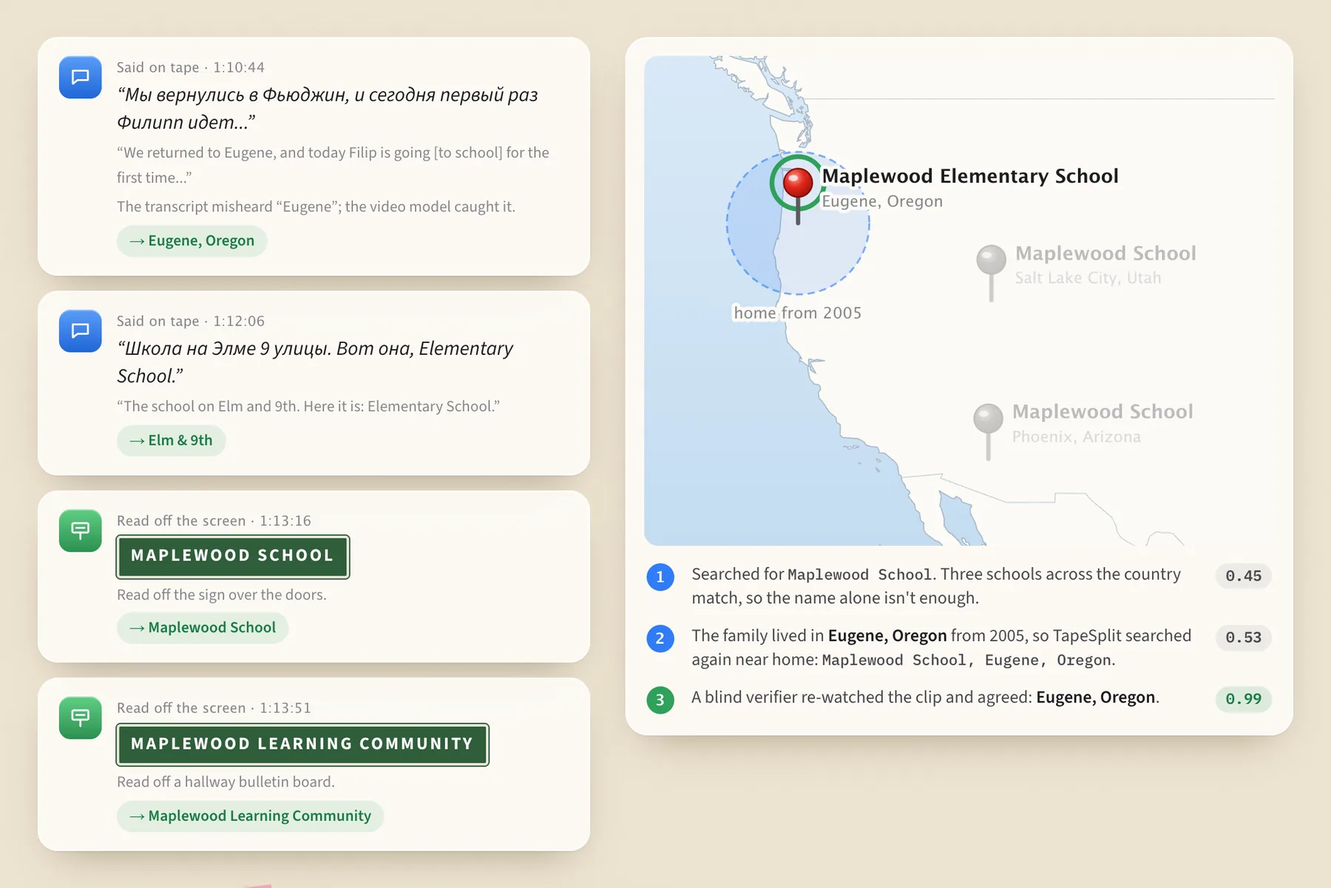
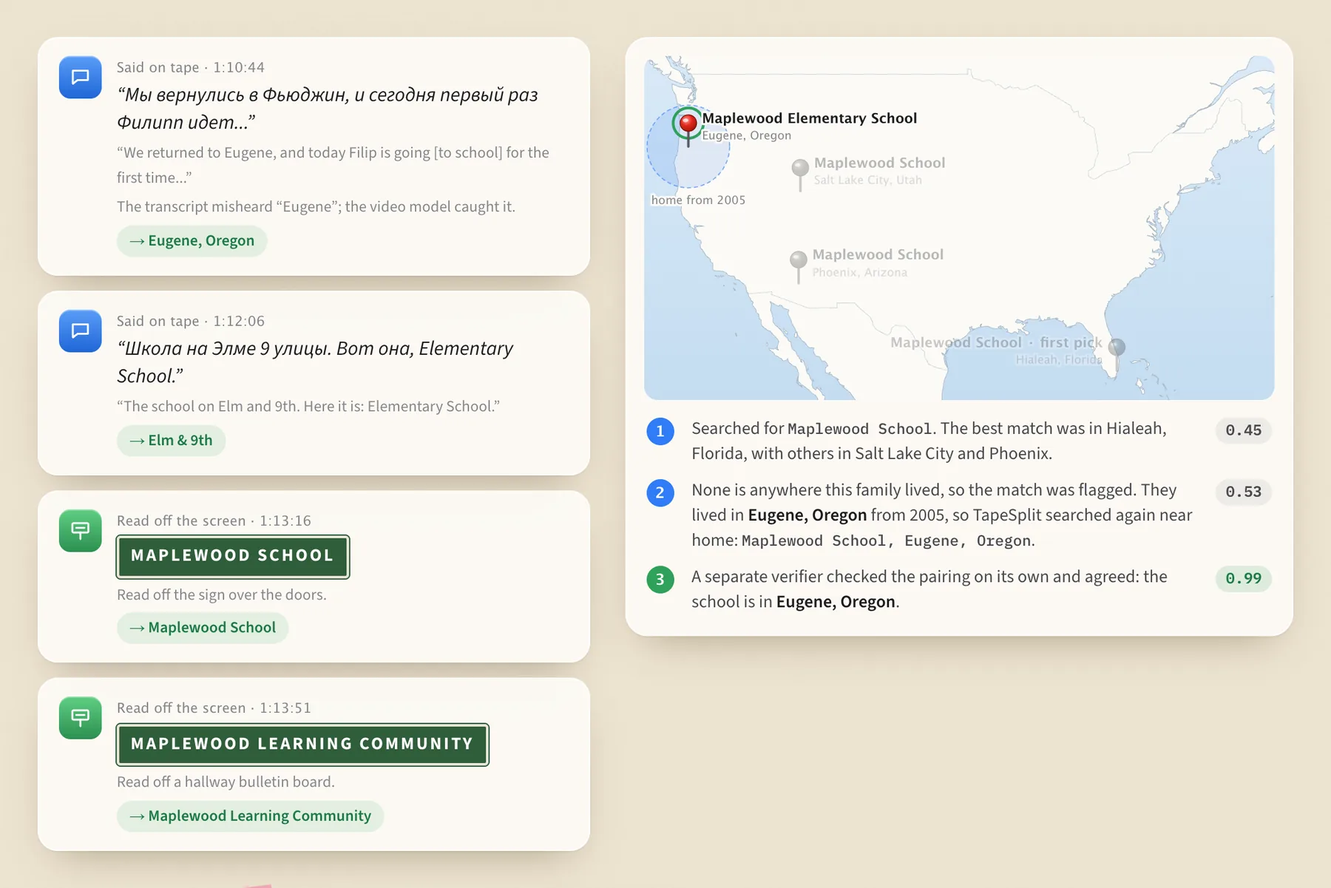
Show the geocoder's real first pick in the Where chapter
The loose search for the school's name picked a match in Florida, with
others in Utah and Arizona, and TapeSplit flagged it because none is near
where the family lived. The map and steps now show that, instead of
implying Eugene was one of the first three matches. The final 0.99 check
is described as what it is: a separate verifier agreeing the school
belongs in Eugene, not a rewatch of the clip.

Changed region(s): [[0.4667, 0.0616, 0.9956, 0.8626], [0.9022, 0.647, 0.9644, 0.6778]]

diff --git a/site/how-data.js b/site/how-data.js
@@ -1,1 +1,1 @@
-window.TAPESPLIT_HOW = {"tape":{"tape":18,"file":"tape-20.mp4","duration":7374.3,"moments":[{"t0":0.0,"t1":455.4,"title":"House and Garden Tour","date":null,"kind":"home"},{"t0":483.8,"t1":542.9,"title":"Front Yard and House Exterior","date":null,"kind":"home"},{"t0":1485.0,"t1":1605.0,"title":"Halloween Decorations","date":"November 6, 2004","kind":"holiday"},{"t0":1605.0,"t1":1665.0,"title":"Philip Watches Cartoon","date":"November 14, 2004","kind":"home"},{"t0":1665.0,"t1":1924.9,"title":"Birthday Party Games","date":"December 5, 2004","kind":"birthday"},{"t0":2097.9,"t1":2172.9,"title":"Birthday Cake and Song","date":null,"kind":"birthday"},{"t0":2280.0,"t1":2467.0,"title":"Volcanic Landscape Exploration","date":"JUN 12 2005","kind":"travel"},{"t0":2467.0,"t1":2507.0,"title":"Forest Waterfall and Giant Trees","date":null,"kind":"travel"},{"t0":2655.0,"t1":2768.0,"title":"Mountain Views","date":null,"kind":"travel"},{"t0":2857.0,"t1":2995.0,"title":"Wildlife Safari Visit","date":"JUN 18 2005","kind":"travel"},{"t0":2995.0,"t1":3163.0,"title":"Safari Train Ride and Animals","date":null,"kind":"travel"},{"t0":3163.0,"t1":3392.0,"title":"Driving Safari and Ostrich Encounter","date":null,"kind":"travel"},{"t0":3540.0,"t1":3739.2,"title":"Safari Park Visit","date":null,"kind":"travel"},{"t0":3742.8,"t1":4031.4,"title":"First Day of School in Moscow","date":"SEP 1 2005","kind":"school"},{"t0":4031.4,"t1":4161.6,"title":"Home in Moscow","date":"SEP 1 2005","kind":"home"},{"t0":4164.0,"t1":4486.1,"title":"First Day of School in Eugene","date":"SEP 7 2005","kind":"school"},{"t0":4486.1,"t1":4530.0,"title":"Classroom Activities","date":"SEP 7 2005","kind":"school"},{"t0":4530.0,"t1":4571.3,"title":"First Day Lesson","date":null,"kind":"school"},{"t0":5310.0,"t1":5337.1,"title":"Filip's Hike and Culinary Preferences","date":null,"kind":"travel"},{"t0":5337.1,"t1":5360.8,"title":"Ascending the Volcanic Hill","date":null,"kind":"travel"},{"t0":5360.8,"t1":6453.8,"title":"Filip's Summit Rest and Descent","date":null,"kind":"travel"},{"t0":6453.8,"t1":6704.1,"title":"University Campus Walk","date":null,"kind":"school"},{"t0":6704.1,"t1":6914.9,"title":"Geology Lab Tour","date":null,"kind":"school"},{"t0":6914.9,"t1":7095.0,"title":"Ski Trip at Willamette Pass","date":"MAR 5 2006","kind":"travel"},{"t0":7080.0,"t1":7115.0,"title":"Skiing and Snow Play","date":null,"kind":"travel"},{"t0":7115.0,"t1":7252.8,"title":"Salt Creek Falls Visit","date":null,"kind":"travel"},{"t0":7252.8,"t1":7370.0,"title":"Fish Hatchery and Bird Enclosures","date":null,"kind":"travel"}],"gaps":[[192.0,200.0],[308.0,312.0],[630.0,640.0],[644.0,656.0],[682.0,692.0],[708.0,722.0],[728.0,756.0],[760.0,766.0],[794.0,798.0],[812.0,822.0],[864.0,868.0],[894.0,898.0],[902.0,914.0],[1048.0,1052.0],[1058.0,1064.0],[1078.0,1094.0],[1114.0,1124.0],[1132.0,1138.0],[1142.0,1146.0],[1546.0,1550.0],[2042.0,2046.0],[2060.0,2068.0],[2076.0,2082.0],[2136.0,2166.0],[2212.0,2216.0],[2262.0,2266.0],[2308.0,2344.0],[2360.0,2400.0],[2410.0,2420.0],[2466.0,2486.0],[2490.0,2496.0],[2514.0,2522.0],[2538.0,2572.0],[2576.0,2580.0],[2590.0,2602.0],[2610.0,2618.0],[2630.0,2646.0],[2650.0,2660.0],[2666.0,2670.0],[2674.0,2678.0],[2682.0,2686.0],[2700.0,2704.0],[2730.0,2746.0],[2762.0,2768.0],[2826.0,2856.0],[2920.0,2926.0],[2930.0,2934.0],[2944.0,2956.0],[2984.0,2988.0],[3040.0,3044.0],[3068.0,3074.0],[3080.0,3088.0],[3132.0,3136.0],[3234.0,3248.0],[3312.0,3320.0],[3356.0,3386.0],[3436.0,3468.0],[3474.0,3478.0],[3570.0,3594.0],[3754.0,3760.0],[4008.0,4018.0],[4162.0,4166.0],[4178.0,4200.0],[4208.0,4218.0],[4286.0,4290.0],[4332.0,4342.0],[4440.0,4456.0],[4470.0,4476.0],[4532.0,4538.0],[4866.0,4874.0],[4946.0,4950.0],[4974.0,5020.0],[5252.0,5260.0],[5376.0,5380.0],[5452.0,5470.0],[5476.0,5490.0],[5570.0,5596.0],[5602.0,5606.0],[5628.0,5632.0],[5654.0,5660.0],[5710.0,5716.0],[5832.0,5836.0],[5840.0,5848.0],[5936.0,5954.0],[6176.0,6182.0],[6198.0,6202.0],[6410.0,6422.0],[6442.0,6462.0],[6480.0,6492.0],[6510.0,6518.0],[6522.0,6532.0],[6552.0,6556.0],[6600.0,6606.0],[6626.0,6638.0],[6676.0,6680.0],[6718.0,6722.0],[6760.0,6764.0],[6838.0,6848.0],[6852.0,6856.0],[6888.0,6892.0],[6904.0,6912.0],[6926.0,6930.0],[6938.0,6946.0],[6950.0,6954.0],[6972.0,6982.0],[7014.0,7020.0],[7028.0,7042.0],[7052.0,7076.0],[7088.0,7102.0],[7114.0,7134.0],[7156.0,7162.0],[7170.0,7194.0],[7200.0,7218.0],[7242.0,7246.0],[7308.0,7314.0],[7328.0,7338.0],[7346.0,7374.3]],"focus":[3742.8,4571.3]},"sequence":[{"t":3765.0,"clock":"1:02:45","stamp":"SEP 1 2005","image":"media/how/moscow-sep1.webp","place":"Moscow","title":"First Day of School in Moscow","ocr":[{"text":"SEP","box":[0.5608,0.8577,0.1119,0.075],"id":"visual_text_001189"},{"text":"12005","box":[0.711,0.8484,0.1919,0.089],"id":"visual_text_001188"}],"said":{"ru":"Сегодня 1 сентября, я иду в школу снимать начало учебного года.","en":"Today is September 1st. I'm going to the school to film the start of the school year."}},{"t":4248.67,"clock":"1:10:49","stamp":"SEP 7 2005","image":"media/how/eugene-sep7.webp","place":"Eugene, Oregon","title":"First Day of School in Eugene","ocr":[{"text":"SEP","box":[0.5672,0.8577,0.1183,0.0703],"id":"visual_text_001192"},{"text":"7 2005","box":[0.7142,0.8554,0.1887,0.0796],"id":"visual_text_001191"}],"said":{"ru":"Мы вернулись в Фьюджин, и сегодня первый раз Филипп идет...","en":"We returned to Eugene, and today Filip is going [to school] for the first time...","en_by":"TapeSplit's Journal"}},{"t":4543.0,"clock":"1:15:43","stamp":"FEB 17 2006","image":"media/how/feb17.webp","place":null,"title":"Filip Loses a Tooth","ocr":[{"text":"FEB 17 2006","box":[0.5672,0.8577,0.3358,0.0703],"id":"visual_text_001212"}],"said":null}],"whiteboard":{"image":"media/how/whiteboard.webp","t":4507.67,"clock":"1:15:08","ocr":[{"text":"Today is Wednesday","box":[0.1754,0.3307,0.4525,0.1897],"id":"visual_text_001207"},{"text":"September 7,","box":[0.3145,0.415,0.2766,0.164],"id":"visual_text_001209"},{"text":"22005","box":[0.6023,0.4033,0.1023,0.0609],"id":"visual_text_001208"},{"text":"We will learn names","box":[0.185,0.4923,0.494,0.2694],"id":"visual_text_001210"}],"cited":"Today is Wednesday September 7, 2005"},"ignored":[{"kind":"file","label":"File created 2026","why":"That's when the tape was digitized, not when it was filmed."},{"kind":"history","label":"“1904”","where":"Anna Snegina Museum and Yesenin's House","why":"Mentioned in passing at a museum: a year from history, not the day of filming."}],"window":{"from":2003,"to":2008,"basis":["narrated_day_date","overlay_datestamp"]},"where":{"clues":[{"kind":"speech","t":4243.97,"clock":"1:10:44","ru":"Мы вернулись в Фьюджин, и сегодня первый раз Филипп идет...","en":"We returned to Eugene, and today Filip is going [to school] for the first time...","gives":"Eugene, Oregon","note":"The transcript misheard “Eugene”; the video model caught it."},{"kind":"speech","t":4326.28,"clock":"1:12:06","ru":"Школа на Элме 9 улицы. Вот она, Elementary School.","en":"The school on Elm and 9th. Here it is: Elementary School.","gives":"Elm & 9th"},{"kind":"sign","t":4395.6,"clock":"1:13:16","text":"MAPLEWOOD SCHOOL","gives":"Maplewood School","note":"Read off the sign over the doors."},{"kind":"sign","t":4431.3,"clock":"1:13:51","text":"MAPLEWOOD LEARNING COMMUNITY","gives":"Maplewood Learning Community","note":"Read off a hallway bulletin board."}],"query":"Maplewood School","candidates":[{"label":"Maplewood School","city":"Salt Lake City, Utah","lat":40.76,"lng":-111.89,"kept":false},{"label":"Maplewood School","city":"Phoenix, Arizona","lat":33.45,"lng":-112.07,"kept":false},{"label":"Maplewood Elementary School","city":"Eugene, Oregon","lat":44.05,"lng":-123.09,"kept":true}],"loose_confidence":0.45,"scoped_query":"Maplewood School, Eugene, Oregon","scoped_confidence":0.53,"era":{"label":"Eugene, Oregon years","from":2005,"conflict":[2005]},"context_confidence":0.99,"context_basis":"verification_vote"},"voices":{"clip":{"video":"media/how/firstday-qa.mp4","poster":"media/how/firstday-qa-poster.webp","t0":4262.6,"dur":21.799999999999272},"wave":[0.041,0.039,0.042,0.041,0.036,0.044,0.042,0.039,0.045,0.231,1.0,0.319,0.586,0.785,0.617,0.986,0.899,0.121,0.508,0.741,0.373,1.0,0.712,1.0,0.783,0.634,0.513,0.049,0.057,0.736,0.21,0.089,0.696,0.501,0.677,0.286,0.331,0.695,0.353,0.333,0.04,0.041,0.043,0.041,0.07,0.044,0.035,0.047,0.079,0.065,0.06,0.131,0.107,0.041,0.033,0.031,0.03,0.331,0.648,1.0,0.197,0.873,0.767,0.115,0.497,0.774,0.338,0.082,0.206,0.183,0.082,0.041,0.043,0.101,0.075,0.722,0.787,0.997,0.146,0.635,0.068,0.038,0.044,0.066,0.071,0.036,0.042,0.04,0.046,0.049,0.044,0.051,0.045,0.059,0.305,0.578,0.414,0.804,0.676,0.721,0.255,0.338,0.804,0.671,0.523,0.648,0.753,0.083,0.075,0.088,0.086,0.084,0.088,0.105,0.124,0.094,0.1,0.138,0.125,0.099,0.104,0.157,0.149,0.109,0.157,0.808,0.476,0.124,0.125,0.123,0.137,0.133,0.586,0.341,0.179,0.766,0.456,0.236,0.204,0.181,0.204,0.21,0.218,0.207,0.178,0.162,0.176,0.145,0.129,0.119,0.147,0.145,0.135,0.086,0.097,0.249,0.088,0.093,0.105,0.086,0.078,0.07,0.058,0.059,0.051,0.048,0.052,0.047,0.096,0.323,0.606,0.116,0.038,0.048,0.056,0.074],"segments":[{"t0":0.98,"t1":4.88,"voice":1,"ru":"Филечка, что ты думаешь насчет своего первого дня в классе? Скажи бабушкам, дедушкам.","en":"Filechka, what do you think about your first day in class? Tell your grandmas and grandpas."},{"t0":7.03,"t1":8.08,"voice":1,"ru":"Ты боишься немножко, нет?","en":"Are you a little scared?"},{"t0":8.28,"t1":8.63,"voice":2,"ru":"Нет.","en":"No."},{"t0":9.03,"t1":9.83,"voice":1,"ru":"Ты не боишься?","en":"You're not scared?"},{"t0":10.23,"t1":10.48,"voice":2,"ru":"Нет.","en":"No."},{"t0":11.36,"t1":13.26,"voice":1,"ru":"А что ты хочешь бабушкам привет передать?","en":"Do you want to say hi to your grandmas?"},{"t0":15.51,"t1":16.91,"voice":1,"ru":"Да? Как ты скажешь?","en":"Yes? What will you say?"},{"t0":18.86,"t1":20.26,"voice":2,"ru":"Не знаю.","en":"I don't know."},{"t0":20.71,"t1":21.01,"voice":1,"ru":"Да?","en":"Yeah?"}],"model":"gpt-4o-transcribe-diarize"},"language":{"switch":[{"t":4326.28,"clock":"1:12:06","parts":[["ru","Школа на Элме 9 улицы. Вот она, "],["en","Elementary School."]],"en":"The school on Elm and 9th. Here it is: Elementary School."},{"t":4345.03,"clock":"1:12:25","parts":[["en","But you're Spider-Man, huh?"]],"en":null},{"t":4485.63,"clock":"1:14:46","parts":[["en","Good morning Emily."]],"en":null}],"search":{"query":"grandma and grandpa","hits":[{"tape":18,"clock":"1:11:06","ru":"Скажи бабушкам, дедушкам.","en":"Tell your grandmas and grandpas."},{"tape":17,"clock":"1:02:02","ru":"И старые дедушки, и бабушки.","en":"And the old grandpas, and the grandmas."},{"tape":18,"clock":"22:08","ru":"Скажи бабушкам что-нибудь.","en":"Say something to your grandmas."}],"model":"paraphrase-multilingual-MiniLM-L12-v2"},"journal":{"ru":"Вот родной двор, родной балкон. Сегодня 1 сентября, я иду в школу.","en":"Here is our native courtyard, our native balcony. Today is September 1; I’m going to school.","date":"September 1, 2005","tape":3,"clock":"0:52","model":"gpt-5.6-terra"},"entry":{"kicker":"Первый звонок","title":"Филипп идет в Maplewood School","dek":"7 сентября 2005 года Филипп впервые отправился в школу в Eugene, Oregon — с рюкзаком, ланчбоксом и заметным волнением.","date":"September 7, 2005","model":"gpt-5.6-terra"},"names":["Filia","Filip","Filipp","Filya","Philip","Филип","Филипп","Филя"],"roles":["Grandma","Grandpa"]},"faces":{"frames":[{"image":"media/how/track-0.webp","box":[0.5321,0.254,0.2251,0.3839],"t":4356.28},{"image":"media/how/track-1.webp","box":[0.4557,0.3204,0.3048,0.492],"t":4358.48},{"image":"media/how/track-2.webp","box":[0.1057,0.0598,0.3217,0.5372],"t":4360.69}],"track_frames":23,"span":4.4},"archive":{"tapes":[{"tape":1,"moments":0,"hours":3.2,"window":[1996,2009],"direct":false,"dates":[]},{"tape":2,"moments":0,"hours":2.07,"window":[1996,2009],"direct":false,"dates":[]},{"tape":3,"moments":10,"hours":1.33,"window":[2004,2007],"direct":true,"dates":[["2003-01-05","said"],["2005-09-01","said"],["2005-09-07","said"],["2006-02-17","stamp"],["2006-03-22","said"],["2006-03-25","stamp"],["2006-03-26","stamp"]]},{"tape":4,"moments":12,"hours":2.09,"window":[2002,2005],"direct":true,"dates":[["2003-03-01","said"],["2003-03-15","said"],["2003-03-29","said"],["2003-05-10","said"],["2003-05-15","said"],["2003-11-01","said"],["2004-01-01","said"],["2004-01-04","said"]]},{"tape":5,"moments":12,"hours":1.25,"window":[2000,2003],"direct":true,"dates":[["2001-12-01","said"],["2001-12-02","said"],["2001-12-14","said"],["2001-12-31","stamp"],["2002-01-01","said"],["2002-04-21","stamp"],["2002-04-27","stamp"],["2002-04-29","stamp"],["2002-05-05","said"],["2002-05-10","said"],["2002-05-11","said"],["2002-05-12","said"],["2002-05-17","said"],["2002-05-19","said"],["2002-05-26","stamp"],["2002-06-12","said"],["2002-06-25","said"],["2003-01-05","stamp"]]},{"tape":6,"moments":46,"hours":3.5,"window":[2000,2005],"direct":true,"dates":[["2001-12-01","said"],["2001-12-02","said"],["2001-12-14","said"],["2001-12-23","said"],["2002-04-21","stamp"],["2002-04-29","stamp"],["2002-05-10","said"],["2002-07-28","said"],["2002-10-13","said"],["2002-12-08","said"],["2003-01-05","stamp"],["2004-02-15","said"],["2004-02-21","stamp"],["2004-02-29","said"],["2004-03-07","said"],["2004-04-10","said"],["2004-06-15","stamp"],["2004-06-16","said"],["2005-09-01","said"]]},{"tape":7,"moments":3,"hours":1.38,"window":[1999,2001],"direct":true,"dates":[]},{"tape":8,"moments":30,"hours":2.08,"window":[1997,1999],"direct":true,"dates":[["1998-08-28","said"],["1998-08-29","said"],["1998-09-01","said"],["1998-09-02","said"],["1998-09-04","said"],["1998-09-05","said"],["1998-09-09","stamp"],["1998-09-12","said"],["1998-09-13","said"],["1998-09-14","said"]]},{"tape":9,"moments":30,"hours":2.06,"window":[2006,2008],"direct":true,"dates":[["2007-02-06","said"],["2007-05-06","said"],["2007-06-10","said"],["2007-06-14","said"],["2007-06-15","said"],["2007-08-17","said"],["2007-10-20","said"],["2007-12-10","said"],["2007-12-11","said"]]},{"tape":10,"moments":6,"hours":0.48,"window":[1996,1998],"direct":true,"dates":[["1997-05-18","stamp"]]},{"tape":11,"moments":6,"hours":0.57,"window":[2002,2004],"direct":true,"dates":[["2003-01-05","said"],["2003-03-15","said"]]},{"tape":12,"moments":5,"hours":1.08,"window":[2005,2007],"direct":true,"dates":[["2006-06-14","stamp"],["2006-07-16","stamp"],["2006-08-20","said"],["2006-08-27","said"],["2007-10-20","said"]]},{"tape":13,"moments":2,"hours":0.37,"window":[1996,2009],"direct":false,"dates":[]},{"tape":14,"moments":6,"hours":0.82,"window":[2000,2002],"direct":true,"dates":[["2001-05-13","said"],["2001-05-19","stamp"],["2001-05-25","stamp"],["2001-05-26","stamp"],["2001-05-27","stamp"]]},{"tape":15,"moments":31,"hours":2.06,"window":[2000,2003],"direct":true,"dates":[["2001-12-01","said"],["2001-12-02","said"],["2002-04-21","stamp"],["2002-06-22","said"],["2002-06-24","said"],["2002-07-27","stamp"],["2002-07-28","said"],["2002-08-22","said"],["2002-08-26","said"]]},{"tape":16,"moments":43,"hours":2.07,"window":[2001,2007],"direct":true,"dates":[["2006-03-20","stamp"],["2006-03-24","said"],["2006-04-30","said"],["2006-05-14","said"]]},{"tape":17,"moments":5,"hours":1.35,"window":[2006,2009],"direct":true,"dates":[["2007-08-17","said"],["2007-10-20","said"],["2007-10-26","stamp"]]},{"tape":18,"moments":27,"hours":2.05,"window":[2003,2008],"direct":true,"dates":[["2004-11-06","said"],["2004-11-14","stamp"],["2004-12-05","said"],["2005-06-12","stamp"],["2005-06-18","said"],["2005-09-01","said"],["2005-09-07","said"],["2006-03-05","said"]]},{"tape":19,"moments":5,"hours":1.54,"window":[1999,2001],"direct":true,"dates":[["2000-09-15","said"],["2000-09-16","said"],["2000-09-18","stamp"]]}],"eras":[{"label":"Madison, Wisconsin","from":2002,"to":2004,"conflict":[]},{"label":"Eugene, Oregon","from":2005,"to":2009,"conflict":[2005]}]},"stats":{"tapes":19,"hours":31.4,"moments":279,"scenes":4330,"dated_day":99,"dated_by_stamp":29,"dated_by_speech":75,"dated_by_both":5,"blank_hours":8.3,"unrelated":54,"speech_ru_hours":5.9,"speech_en_hours":3.4,"speaker_segments":19263,"places":244,"people":101,"face_tracks":4722,"review_items":368},"photos":{"walk":"media/how/walk.webp","corner":"media/how/corner.webp","face":"media/how/face.webp"}};
+window.TAPESPLIT_HOW = {"tape":{"tape":18,"file":"tape-20.mp4","duration":7374.3,"moments":[{"t0":0.0,"t1":455.4,"title":"House and Garden Tour","date":null,"kind":"home"},{"t0":483.8,"t1":542.9,"title":"Front Yard and House Exterior","date":null,"kind":"home"},{"t0":1485.0,"t1":1605.0,"title":"Halloween Decorations","date":"November 6, 2004","kind":"holiday"},{"t0":1605.0,"t1":1665.0,"title":"Philip Watches Cartoon","date":"November 14, 2004","kind":"home"},{"t0":1665.0,"t1":1924.9,"title":"Birthday Party Games","date":"December 5, 2004","kind":"birthday"},{"t0":2097.9,"t1":2172.9,"title":"Birthday Cake and Song","date":null,"kind":"birthday"},{"t0":2280.0,"t1":2467.0,"title":"Volcanic Landscape Exploration","date":"JUN 12 2005","kind":"travel"},{"t0":2467.0,"t1":2507.0,"title":"Forest Waterfall and Giant Trees","date":null,"kind":"travel"},{"t0":2655.0,"t1":2768.0,"title":"Mountain Views","date":null,"kind":"travel"},{"t0":2857.0,"t1":2995.0,"title":"Wildlife Safari Visit","date":"JUN 18 2005","kind":"travel"},{"t0":2995.0,"t1":3163.0,"title":"Safari Train Ride and Animals","date":null,"kind":"travel"},{"t0":3163.0,"t1":3392.0,"title":"Driving Safari and Ostrich Encounter","date":null,"kind":"travel"},{"t0":3540.0,"t1":3739.2,"title":"Safari Park Visit","date":null,"kind":"travel"},{"t0":3742.8,"t1":4031.4,"title":"First Day of School in Moscow","date":"SEP 1 2005","kind":"school"},{"t0":4031.4,"t1":4161.6,"title":"Home in Moscow","date":"SEP 1 2005","kind":"home"},{"t0":4164.0,"t1":4486.1,"title":"First Day of School in Eugene","date":"SEP 7 2005","kind":"school"},{"t0":4486.1,"t1":4530.0,"title":"Classroom Activities","date":"SEP 7 2005","kind":"school"},{"t0":4530.0,"t1":4571.3,"title":"First Day Lesson","date":null,"kind":"school"},{"t0":5310.0,"t1":5337.1,"title":"Filip's Hike and Culinary Preferences","date":null,"kind":"travel"},{"t0":5337.1,"t1":5360.8,"title":"Ascending the Volcanic Hill","date":null,"kind":"travel"},{"t0":5360.8,"t1":6453.8,"title":"Filip's Summit Rest and Descent","date":null,"kind":"travel"},{"t0":6453.8,"t1":6704.1,"title":"University Campus Walk","date":null,"kind":"school"},{"t0":6704.1,"t1":6914.9,"title":"Geology Lab Tour","date":null,"kind":"school"},{"t0":6914.9,"t1":7095.0,"title":"Ski Trip at Willamette Pass","date":"MAR 5 2006","kind":"travel"},{"t0":7080.0,"t1":7115.0,"title":"Skiing and Snow Play","date":null,"kind":"travel"},{"t0":7115.0,"t1":7252.8,"title":"Salt Creek Falls Visit","date":null,"kind":"travel"},{"t0":7252.8,"t1":7370.0,"title":"Fish Hatchery and Bird Enclosures","date":null,"kind":"travel"}],"gaps":[[192.0,200.0],[308.0,312.0],[630.0,640.0],[644.0,656.0],[682.0,692.0],[708.0,722.0],[728.0,756.0],[760.0,766.0],[794.0,798.0],[812.0,822.0],[864.0,868.0],[894.0,898.0],[902.0,914.0],[1048.0,1052.0],[1058.0,1064.0],[1078.0,1094.0],[1114.0,1124.0],[1132.0,1138.0],[1142.0,1146.0],[1546.0,1550.0],[2042.0,2046.0],[2060.0,2068.0],[2076.0,2082.0],[2136.0,2166.0],[2212.0,2216.0],[2262.0,2266.0],[2308.0,2344.0],[2360.0,2400.0],[2410.0,2420.0],[2466.0,2486.0],[2490.0,2496.0],[2514.0,2522.0],[2538.0,2572.0],[2576.0,2580.0],[2590.0,2602.0],[2610.0,2618.0],[2630.0,2646.0],[2650.0,2660.0],[2666.0,2670.0],[2674.0,2678.0],[2682.0,2686.0],[2700.0,2704.0],[2730.0,2746.0],[2762.0,2768.0],[2826.0,2856.0],[2920.0,2926.0],[2930.0,2934.0],[2944.0,2956.0],[2984.0,2988.0],[3040.0,3044.0],[3068.0,3074.0],[3080.0,3088.0],[3132.0,3136.0],[3234.0,3248.0],[3312.0,3320.0],[3356.0,3386.0],[3436.0,3468.0],[3474.0,3478.0],[3570.0,3594.0],[3754.0,3760.0],[4008.0,4018.0],[4162.0,4166.0],[4178.0,4200.0],[4208.0,4218.0],[4286.0,4290.0],[4332.0,4342.0],[4440.0,4456.0],[4470.0,4476.0],[4532.0,4538.0],[4866.0,4874.0],[4946.0,4950.0],[4974.0,5020.0],[5252.0,5260.0],[5376.0,5380.0],[5452.0,5470.0],[5476.0,5490.0],[5570.0,5596.0],[5602.0,5606.0],[5628.0,5632.0],[5654.0,5660.0],[5710.0,5716.0],[5832.0,5836.0],[5840.0,5848.0],[5936.0,5954.0],[6176.0,6182.0],[6198.0,6202.0],[6410.0,6422.0],[6442.0,6462.0],[6480.0,6492.0],[6510.0,6518.0],[6522.0,6532.0],[6552.0,6556.0],[6600.0,6606.0],[6626.0,6638.0],[6676.0,6680.0],[6718.0,6722.0],[6760.0,6764.0],[6838.0,6848.0],[6852.0,6856.0],[6888.0,6892.0],[6904.0,6912.0],[6926.0,6930.0],[6938.0,6946.0],[6950.0,6954.0],[6972.0,6982.0],[7014.0,7020.0],[7028.0,7042.0],[7052.0,7076.0],[7088.0,7102.0],[7114.0,7134.0],[7156.0,7162.0],[7170.0,7194.0],[7200.0,7218.0],[7242.0,7246.0],[7308.0,7314.0],[7328.0,7338.0],[7346.0,7374.3]],"focus":[3742.8,4571.3]},"sequence":[{"t":3765.0,"clock":"1:02:45","stamp":"SEP 1 2005","image":"media/how/moscow-sep1.webp","place":"Moscow","title":"First Day of School in Moscow","ocr":[{"text":"SEP","box":[0.5608,0.8577,0.1119,0.075],"id":"visual_text_001189"},{"text":"12005","box":[0.711,0.8484,0.1919,0.089],"id":"visual_text_001188"}],"said":{"ru":"Сегодня 1 сентября, я иду в школу снимать начало учебного года.","en":"Today is September 1st. I'm going to the school to film the start of the school year."}},{"t":4248.67,"clock":"1:10:49","stamp":"SEP 7 2005","image":"media/how/eugene-sep7.webp","place":"Eugene, Oregon","title":"First Day of School in Eugene","ocr":[{"text":"SEP","box":[0.5672,0.8577,0.1183,0.0703],"id":"visual_text_001192"},{"text":"7 2005","box":[0.7142,0.8554,0.1887,0.0796],"id":"visual_text_001191"}],"said":{"ru":"Мы вернулись в Фьюджин, и сегодня первый раз Филипп идет...","en":"We returned to Eugene, and today Filip is going [to school] for the first time...","en_by":"TapeSplit's Journal"}},{"t":4543.0,"clock":"1:15:43","stamp":"FEB 17 2006","image":"media/how/feb17.webp","place":null,"title":"Filip Loses a Tooth","ocr":[{"text":"FEB 17 2006","box":[0.5672,0.8577,0.3358,0.0703],"id":"visual_text_001212"}],"said":null}],"whiteboard":{"image":"media/how/whiteboard.webp","t":4507.67,"clock":"1:15:08","ocr":[{"text":"Today is Wednesday","box":[0.1754,0.3307,0.4525,0.1897],"id":"visual_text_001207"},{"text":"September 7,","box":[0.3145,0.415,0.2766,0.164],"id":"visual_text_001209"},{"text":"22005","box":[0.6023,0.4033,0.1023,0.0609],"id":"visual_text_001208"},{"text":"We will learn names","box":[0.185,0.4923,0.494,0.2694],"id":"visual_text_001210"}],"cited":"Today is Wednesday September 7, 2005"},"ignored":[{"kind":"file","label":"File created 2026","why":"That's when the tape was digitized, not when it was filmed."},{"kind":"history","label":"“1904”","where":"Anna Snegina Museum and Yesenin's House","why":"Mentioned in passing at a museum: a year from history, not the day of filming."}],"window":{"from":2003,"to":2008,"basis":["narrated_day_date","overlay_datestamp"]},"where":{"clues":[{"kind":"speech","t":4243.97,"clock":"1:10:44","ru":"Мы вернулись в Фьюджин, и сегодня первый раз Филипп идет...","en":"We returned to Eugene, and today Filip is going [to school] for the first time...","gives":"Eugene, Oregon","note":"The transcript misheard “Eugene”; the video model caught it."},{"kind":"speech","t":4326.28,"clock":"1:12:06","ru":"Школа на Элме 9 улицы. Вот она, Elementary School.","en":"The school on Elm and 9th. Here it is: Elementary School.","gives":"Elm & 9th"},{"kind":"sign","t":4395.6,"clock":"1:13:16","text":"MAPLEWOOD SCHOOL","gives":"Maplewood School","note":"Read off the sign over the doors."},{"kind":"sign","t":4431.3,"clock":"1:13:51","text":"MAPLEWOOD LEARNING COMMUNITY","gives":"Maplewood Learning Community","note":"Read off a hallway bulletin board."}],"query":"Maplewood School","candidates":[{"city":"Hialeah, Florida","lat":25.86,"lng":-80.28,"label":"Maplewood School","kept":false,"first":true,"later":false},{"city":"Salt Lake City, Utah","lat":40.76,"lng":-111.89,"label":"Maplewood School","kept":false,"first":false,"later":false},{"city":"Phoenix, Arizona","lat":33.45,"lng":-112.07,"label":"Maplewood School","kept":false,"first":false,"later":false},{"label":"Maplewood Elementary School","city":"Eugene, Oregon","lat":44.05,"lng":-123.09,"kept":true,"first":false,"later":true}],"loose_confidence":0.45,"scoped_query":"Maplewood School, Eugene, Oregon","scoped_confidence":0.53,"era":{"label":"Eugene, Oregon years","from":2005,"conflict":[2005]},"context_confidence":0.99,"context_basis":"verification_vote"},"voices":{"clip":{"video":"media/how/firstday-qa.mp4","poster":"media/how/firstday-qa-poster.webp","t0":4262.6,"dur":21.799999999999272},"wave":[0.041,0.039,0.042,0.041,0.036,0.044,0.042,0.039,0.045,0.231,1.0,0.319,0.586,0.785,0.617,0.986,0.899,0.121,0.508,0.741,0.373,1.0,0.712,1.0,0.783,0.634,0.513,0.049,0.057,0.736,0.21,0.089,0.696,0.501,0.677,0.286,0.331,0.695,0.353,0.333,0.04,0.041,0.043,0.041,0.07,0.044,0.035,0.047,0.079,0.065,0.06,0.131,0.107,0.041,0.033,0.031,0.03,0.331,0.648,1.0,0.197,0.873,0.767,0.115,0.497,0.774,0.338,0.082,0.206,0.183,0.082,0.041,0.043,0.101,0.075,0.722,0.787,0.997,0.146,0.635,0.068,0.038,0.044,0.066,0.071,0.036,0.042,0.04,0.046,0.049,0.044,0.051,0.045,0.059,0.305,0.578,0.414,0.804,0.676,0.721,0.255,0.338,0.804,0.671,0.523,0.648,0.753,0.083,0.075,0.088,0.086,0.084,0.088,0.105,0.124,0.094,0.1,0.138,0.125,0.099,0.104,0.157,0.149,0.109,0.157,0.808,0.476,0.124,0.125,0.123,0.137,0.133,0.586,0.341,0.179,0.766,0.456,0.236,0.204,0.181,0.204,0.21,0.218,0.207,0.178,0.162,0.176,0.145,0.129,0.119,0.147,0.145,0.135,0.086,0.097,0.249,0.088,0.093,0.105,0.086,0.078,0.07,0.058,0.059,0.051,0.048,0.052,0.047,0.096,0.323,0.606,0.116,0.038,0.048,0.056,0.074],"segments":[{"t0":0.98,"t1":4.88,"voice":1,"ru":"Филечка, что ты думаешь насчет своего первого дня в классе? Скажи бабушкам, дедушкам.","en":"Filechka, what do you think about your first day in class? Tell your grandmas and grandpas."},{"t0":7.03,"t1":8.08,"voice":1,"ru":"Ты боишься немножко, нет?","en":"Are you a little scared?"},{"t0":8.28,"t1":8.63,"voice":2,"ru":"Нет.","en":"No."},{"t0":9.03,"t1":9.83,"voice":1,"ru":"Ты не боишься?","en":"You're not scared?"},{"t0":10.23,"t1":10.48,"voice":2,"ru":"Нет.","en":"No."},{"t0":11.36,"t1":13.26,"voice":1,"ru":"А что ты хочешь бабушкам привет передать?","en":"Do you want to say hi to your grandmas?"},{"t0":15.51,"t1":16.91,"voice":1,"ru":"Да? Как ты скажешь?","en":"Yes? What will you say?"},{"t0":18.86,"t1":20.26,"voice":2,"ru":"Не знаю.","en":"I don't know."},{"t0":20.71,"t1":21.01,"voice":1,"ru":"Да?","en":"Yeah?"}],"model":"gpt-4o-transcribe-diarize"},"language":{"switch":[{"t":4326.28,"clock":"1:12:06","parts":[["ru","Школа на Элме 9 улицы. Вот она, "],["en","Elementary School."]],"en":"The school on Elm and 9th. Here it is: Elementary School."},{"t":4345.03,"clock":"1:12:25","parts":[["en","But you're Spider-Man, huh?"]],"en":null},{"t":4485.63,"clock":"1:14:46","parts":[["en","Good morning Emily."]],"en":null}],"search":{"query":"grandma and grandpa","hits":[{"tape":18,"clock":"1:11:06","ru":"Скажи бабушкам, дедушкам.","en":"Tell your grandmas and grandpas."},{"tape":17,"clock":"1:02:02","ru":"И старые дедушки, и бабушки.","en":"And the old grandpas, and the grandmas."},{"tape":18,"clock":"22:08","ru":"Скажи бабушкам что-нибудь.","en":"Say something to your grandmas."}],"model":"paraphrase-multilingual-MiniLM-L12-v2"},"journal":{"ru":"Вот родной двор, родной балкон. Сегодня 1 сентября, я иду в школу.","en":"Here is our native courtyard, our native balcony. Today is September 1; I’m going to school.","date":"September 1, 2005","tape":3,"clock":"0:52","model":"gpt-5.6-terra"},"entry":{"kicker":"Первый звонок","title":"Филипп идет в Maplewood School","dek":"7 сентября 2005 года Филипп впервые отправился в школу в Eugene, Oregon — с рюкзаком, ланчбоксом и заметным волнением.","date":"September 7, 2005","model":"gpt-5.6-terra"},"names":["Filia","Filip","Filipp","Filya","Philip","Филип","Филипп","Филя"],"roles":["Grandma","Grandpa"]},"faces":{"frames":[{"image":"media/how/track-0.webp","box":[0.5321,0.254,0.2251,0.3839],"t":4356.28},{"image":"media/how/track-1.webp","box":[0.4557,0.3204,0.3048,0.492],"t":4358.48},{"image":"media/how/track-2.webp","box":[0.1057,0.0598,0.3217,0.5372],"t":4360.69}],"track_frames":23,"span":4.4},"archive":{"tapes":[{"tape":1,"moments":0,"hours":3.2,"window":[1996,2009],"direct":false,"dates":[]},{"tape":2,"moments":0,"hours":2.07,"window":[1996,2009],"direct":false,"dates":[]},{"tape":3,"moments":10,"hours":1.33,"window":[2004,2007],"direct":true,"dates":[["2003-01-05","said"],["2005-09-01","said"],["2005-09-07","said"],["2006-02-17","stamp"],["2006-03-22","said"],["2006-03-25","stamp"],["2006-03-26","stamp"]]},{"tape":4,"moments":12,"hours":2.09,"window":[2002,2005],"direct":true,"dates":[["2003-03-01","said"],["2003-03-15","said"],["2003-03-29","said"],["2003-05-10","said"],["2003-05-15","said"],["2003-11-01","said"],["2004-01-01","said"],["2004-01-04","said"]]},{"tape":5,"moments":12,"hours":1.25,"window":[2000,2003],"direct":true,"dates":[["2001-12-01","said"],["2001-12-02","said"],["2001-12-14","said"],["2001-12-31","stamp"],["2002-01-01","said"],["2002-04-21","stamp"],["2002-04-27","stamp"],["2002-04-29","stamp"],["2002-05-05","said"],["2002-05-10","said"],["2002-05-11","said"],["2002-05-12","said"],["2002-05-17","said"],["2002-05-19","said"],["2002-05-26","stamp"],["2002-06-12","said"],["2002-06-25","said"],["2003-01-05","stamp"]]},{"tape":6,"moments":46,"hours":3.5,"window":[2000,2005],"direct":true,"dates":[["2001-12-01","said"],["2001-12-02","said"],["2001-12-14","said"],["2001-12-23","said"],["2002-04-21","stamp"],["2002-04-29","stamp"],["2002-05-10","said"],["2002-07-28","said"],["2002-10-13","said"],["2002-12-08","said"],["2003-01-05","stamp"],["2004-02-15","said"],["2004-02-21","stamp"],["2004-02-29","said"],["2004-03-07","said"],["2004-04-10","said"],["2004-06-15","stamp"],["2004-06-16","said"],["2005-09-01","said"]]},{"tape":7,"moments":3,"hours":1.38,"window":[1999,2001],"direct":true,"dates":[]},{"tape":8,"moments":30,"hours":2.08,"window":[1997,1999],"direct":true,"dates":[["1998-08-28","said"],["1998-08-29","said"],["1998-09-01","said"],["1998-09-02","said"],["1998-09-04","said"],["1998-09-05","said"],["1998-09-09","stamp"],["1998-09-12","said"],["1998-09-13","said"],["1998-09-14","said"]]},{"tape":9,"moments":30,"hours":2.06,"window":[2006,2008],"direct":true,"dates":[["2007-02-06","said"],["2007-05-06","said"],["2007-06-10","said"],["2007-06-14","said"],["2007-06-15","said"],["2007-08-17","said"],["2007-10-20","said"],["2007-12-10","said"],["2007-12-11","said"]]},{"tape":10,"moments":6,"hours":0.48,"window":[1996,1998],"direct":true,"dates":[["1997-05-18","stamp"]]},{"tape":11,"moments":6,"hours":0.57,"window":[2002,2004],"direct":true,"dates":[["2003-01-05","said"],["2003-03-15","said"]]},{"tape":12,"moments":5,"hours":1.08,"window":[2005,2007],"direct":true,"dates":[["2006-06-14","stamp"],["2006-07-16","stamp"],["2006-08-20","said"],["2006-08-27","said"],["2007-10-20","said"]]},{"tape":13,"moments":2,"hours":0.37,"window":[1996,2009],"direct":false,"dates":[]},{"tape":14,"moments":6,"hours":0.82,"window":[2000,2002],"direct":true,"dates":[["2001-05-13","said"],["2001-05-19","stamp"],["2001-05-25","stamp"],["2001-05-26","stamp"],["2001-05-27","stamp"]]},{"tape":15,"moments":31,"hours":2.06,"window":[2000,2003],"direct":true,"dates":[["2001-12-01","said"],["2001-12-02","said"],["2002-04-21","stamp"],["2002-06-22","said"],["2002-06-24","said"],["2002-07-27","stamp"],["2002-07-28","said"],["2002-08-22","said"],["2002-08-26","said"]]},{"tape":16,"moments":43,"hours":2.07,"window":[2001,2007],"direct":true,"dates":[["2006-03-20","stamp"],["2006-03-24","said"],["2006-04-30","said"],["2006-05-14","said"]]},{"tape":17,"moments":5,"hours":1.35,"window":[2006,2009],"direct":true,"dates":[["2007-08-17","said"],["2007-10-20","said"],["2007-10-26","stamp"]]},{"tape":18,"moments":27,"hours":2.05,"window":[2003,2008],"direct":true,"dates":[["2004-11-06","said"],["2004-11-14","stamp"],["2004-12-05","said"],["2005-06-12","stamp"],["2005-06-18","said"],["2005-09-01","said"],["2005-09-07","said"],["2006-03-05","said"]]},{"tape":19,"moments":5,"hours":1.54,"window":[1999,2001],"direct":true,"dates":[["2000-09-15","said"],["2000-09-16","said"],["2000-09-18","stamp"]]}],"eras":[{"label":"Madison, Wisconsin","from":2002,"to":2004,"conflict":[]},{"label":"Eugene, Oregon","from":2005,"to":2009,"conflict":[2005]}]},"stats":{"tapes":19,"hours":31.4,"moments":279,"scenes":4330,"dated_day":99,"dated_by_stamp":29,"dated_by_speech":75,"dated_by_both":5,"blank_hours":8.3,"unrelated":54,"speech_ru_hours":5.9,"speech_en_hours":3.4,"speaker_segments":19263,"places":244,"people":101,"face_tracks":4722,"review_items":368},"photos":{"walk":"media/how/walk.webp","corner":"media/how/corner.webp","face":"media/how/face.webp"}};

diff --git a/site/how.js b/site/how.js
@@ -149,34 +149,41 @@
     const K = M.width / (M.lon1 - M.lon0);
     const Y0 = mercY(M.latTop);
     const P = (lat, lng) => [(lng - M.lon0) * K, ((Y0 - mercY(lat)) / RAD) * K];
-    const [x0, y0] = P(50.6, -132);
-    const [x1, y1] = P(29.2, -95.5);
+    const [x0, y0] = P(50.2, -127.5);
+    const [x1, y1] = P(23.2, -64.5);
     usMap.setAttribute("viewBox", `${x0.toFixed(1)} ${y0.toFixed(1)} ${(x1 - x0).toFixed(1)} ${(y1 - y0).toFixed(1)}`);
     const keep = H.where.candidates.find((c) => c.kept);
     const [ex, ey] = P(keep.lat, keep.lng);
     let html = `<use href="#ts-land" class="land"/><use href="#ts-borders" class="borders"/>`;
     html += `<circle class="era" cx="${ex.toFixed(1)}" cy="${ey.toFixed(1)}" r="30"/>`;
-    html += `<text class="cand-sub" x="${ex.toFixed(1)}" y="${(ey + 40).toFixed(1)}" text-anchor="middle">home from ${H.where.era.from}</text>`;
+    html += `<text class="cand-sub" x="${(ex - 27).toFixed(1)}" y="${(ey + 42).toFixed(1)}">home from ${H.where.era.from}</text>`;
     html += H.where.candidates.map((c) => {
       const [px, py] = P(c.lat, c.lng);
-      return `<g class="cand${c.kept ? " keep" : " out"}" transform="translate(${px.toFixed(1)} ${py.toFixed(1)})">
+      const left = c.lng > -90;
+      const tx = left ? -10 : 10;
+      const anchor = left ? "end" : "start";
+      return `<g class="cand${c.kept ? " keep" : " out"}${c.later ? " later" : ""}${c.first ? " first" : ""}" transform="translate(${px.toFixed(1)} ${py.toFixed(1)})">
         ${c.kept ? `<circle class="keep-ring" cy="-17" r="11"/>` : ""}
         <g class="drop">
           <path d="M0 0V-12" stroke="#5b5b60" stroke-width="1.8" stroke-linecap="round"/>
           <circle cy="-17" r="6" fill="url(#pinGrad)" stroke="#7d0d06" stroke-width=".6"/>
           <ellipse cx="-2" cy="-19" rx="2" ry="1.3" fill="#fff" opacity=".7"/>
         </g>
-        <text class="cand-label" x="10" y="-17">${esc(c.label)}</text>
-        <text class="cand-sub" x="10" y="-7">${esc(c.city)}</text>
+        <g class="cand-text">
+          <text class="cand-label" x="${tx}" y="-17" text-anchor="${anchor}">${esc(c.label)}${c.first ? " · first pick" : ""}</text>
+          <text class="cand-sub" x="${tx}" y="-5" text-anchor="${anchor}">${esc(c.city)}</text>
+        </g>
       </g>`;
     }).join("");
     usMap.innerHTML = html;
 
     const w = H.where;
+    const first = w.candidates.find((c) => c.first);
+    const others = w.candidates.filter((c) => !c.first && !c.kept).map((c) => c.city.split(",")[0]);
     const steps = [
-      `Searched for <code>${esc(w.query)}</code>. Three schools across the country match, so the name alone isn't enough.`,
-      `The family lived in <strong>${esc(w.era.label.replace(" years", ""))}</strong> from ${w.era.from}, so TapeSplit searched again near home: <code>${esc(w.scoped_query)}</code>.`,
-      `A blind verifier re-watched the clip and agreed: <strong>Eugene, Oregon</strong>.`,
+      `Searched for <code>${esc(w.query)}</code>. The best match was in ${esc(first.city)}, with others in ${others.map(esc).join(" and ")}.`,
+      `None is anywhere this family lived, so the match was flagged. They lived in <strong>${esc(w.era.label.replace(" years", ""))}</strong> from ${w.era.from}, so TapeSplit searched again near home: <code>${esc(w.scoped_query)}</code>.`,
+      `A separate verifier checked the pairing on its own and agreed: the school is in <strong>Eugene, Oregon</strong>.`,
     ];
     const confs = [w.loose_confidence, w.scoped_confidence, w.context_confidence];
     const list = $("#where-steps");

diff --git a/site/how.css b/site/how.css
@@ -886,13 +886,35 @@
 .us-map.s1 .cand:nth-of-type(3) .drop { transition-delay: 0.24s; }
 
 .us-map.s2 .cand.out {
-  opacity: 0.28;
+  opacity: 0.3;
   filter: grayscale(1);
+}
+
+.us-map .cand.later .drop,
+.us-map .cand.later .cand-text,
+.us-map.s1 .cand.later .drop {
+  transform: translateY(-26px);
+  opacity: 0;
+}
+
+.us-map .cand.later .cand-text {
+  transform: none;
+  transition: opacity 0.4s ease 0.3s;
+}
+
+.us-map.s2 .cand.later .drop,
+.us-map.s2 .cand.later .cand-text {
+  transform: none;
+  opacity: 1;
+}
+
+.us-map .cand.first .cand-label {
+  fill: #c8322b;
 }
 
 .us-map .cand-label {
   font-family: var(--font-ui);
-  font-size: 8px;
+  font-size: 10px;
   font-weight: bold;
   fill: var(--ink);
   paint-order: stroke;
@@ -903,7 +925,7 @@
 
 .us-map .cand-sub {
   font-family: var(--font-ui);
-  font-size: 6.6px;
+  font-size: 8.4px;
   fill: var(--ink-3);
   paint-order: stroke;
   stroke: var(--land);

diff --git a/site/index.html b/site/index.html
@@ -306,7 +306,7 @@
         <div class="where-grid">
           <div class="clues" id="clues"></div>
           <div class="where-map reveal" id="where-map">
-            <svg class="us-map" id="us-map" role="img" aria-label="Map of the United States with three schools named Maplewood: Salt Lake City, Phoenix and Eugene. Eugene is kept."></svg>
+            <svg class="us-map" id="us-map" role="img" aria-label="Map of the United States. The first search found Maplewood Schools in Hialeah, Salt Lake City and Phoenix; they are set aside, and the one found near home in Eugene, Oregon is kept."></svg>
             <ol class="steps-mini" id="where-steps"></ol>
           </div>
         </div>

diff --git a/README.md b/README.md
@@ -54,10 +54,10 @@ Tape 18 has no label either. An hour in, the camcorder's clock reads SEP 1 2005 
   <img src="site/media/readme/how-when.webp" alt="Two polaroids with yellow boxes where text was read: the date stamp SEP 7 2005 and a whiteboard saying Today is Wednesday, September 7, 2005, next to cards with the dates TapeSplit took from them" width="100%">
 </p>
 
-**Where.** Mom says they're back in Eugene, and the sign over the doors says Maplewood School. That name alone matches schools in three states, so TapeSplit searched again near where the family lived that year, then had a blind verifier check the clip.
+**Where.** Mom says they're back in Eugene, and the sign over the doors says Maplewood School. A search for that name alone picked a school in Florida, with others in Utah and Arizona. None of those is anywhere this family lived, so TapeSplit flagged the match and searched again near home, and a separate verifier agreed the school belongs in Eugene.
 
 <p align="center">
-  <img src="site/media/readme/how-where.webp" alt="Clue cards (two lines said on tape, two signs read off the screen) next to a map with three Maplewood Schools; Salt Lake City and Phoenix are grayed out and Eugene, Oregon is kept, with confidence rising from 0.45 to 0.99" width="100%">
+  <img src="site/media/readme/how-where.webp" alt="Clue cards (two lines said on tape, two signs read off the screen) next to a map of the United States: the first search's Maplewood Schools in Florida, Utah and Arizona are grayed out, and the one found near home in Eugene, Oregon is kept, with confidence rising from 0.45 to 0.99" width="100%">
 </p>
 
 **Who.** Two voices, separated and lined up with their words. Mom asks, in Russian, what Filip thinks of his first day; he says he isn't scared. Names for voices are suggestions you confirm in Review.
